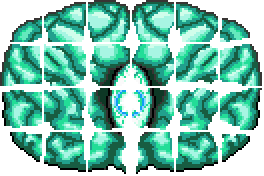
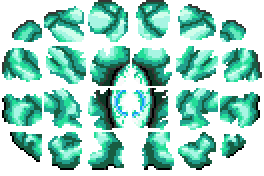
even more death anim progress

diff --git a/NPCs/Enemy/Boss/TrueBrain.cs b/NPCs/Enemy/Boss/TrueBrain.cs
@@ -1129,7 +1129,8 @@ namespace TerRoguelike.NPCs.Enemy.Boss
                 }
             }
             deadTime++;
-            
+
+            int timeToEnd = (deathCutsceneDuration - 30) - deadTime;
             for (int i = 0; i < deathTentacleBreakTimes.Length; i++)
             {
                 int breakTime = deathTentacleBreakTimes[i];
@@ -1188,8 +1189,67 @@ namespace TerRoguelike.NPCs.Enemy.Boss
                         ParticleManager.AddParticle(new OrbitingGore(
                             goreTex, gorePos, goreVel.RotatedBy(Main.rand.NextFloat(-0.4f, 0.4f)), 0.995f, Main.rand.NextFloat(0.04f, 0.08f), orbitAnchor, goreFrame, deathVortexLifetime, 
                             Color.White, new Vector2(1f), 0, 1, 240 - Main.rand.Next(60), 0.075f * Main.rand.NextFloat(0.5f, 2f)));
+
+                        for (int b = 0; b < 5; b++)
+                        {
+                            Vector2 velocity = new Vector2((x < 3 ? -1 : 1) * Main.rand.NextFloat(0.5f, 1f), Main.rand.NextFloat(-2, 0)) * Main.rand.NextFloat(1f, 1.7f);
+                            velocity.X *= Main.rand.NextFloat(0.5f, 3f);
+
+                            if (Main.rand.NextBool(3))
+                                velocity *= 1.5f;
+                            Vector2 scale = new Vector2(0.25f, 0.4f) * 0.65f;
+                            int time = 110 + Main.rand.Next(70);
+                            Color color = Color.Lerp(Color.Cyan * 0.65f, Color.Teal, Main.rand.NextFloat(0.75f));
+                            Vector2 randParticlePos = gorePos + Main.rand.NextVector2Circular(16, 16);
+                            ParticleManager.AddParticle(new Blood(randParticlePos, velocity, time, Color.Black * 0.65f, scale, velocity.ToRotation(), false));
+                            ParticleManager.AddParticle(new Blood(randParticlePos, velocity, time, color, scale, velocity.ToRotation(), true));
+                        }
                     }
                 }
+                for (int i = 0; i < 50; i++)
+                {
+                    Vector2 particlePos = NPC.Center + innerEyePosition;
+                    Vector2 offset = Main.rand.NextVector2Circular(104, 75);
+                    ParticleManager.AddParticle(new Ball(
+                        particlePos + offset, offset.SafeNormalize(Vector2.UnitY) * 5 * Main.rand.NextFloat(0.8f, 1f),
+                        60, Color.Lerp(Color.Teal, Color.White, 0.5f), new Vector2(0.4f) * Main.rand.NextFloat(0.5f, 1f), 0, 0.96f, 40));
+                }
+            }
+            if (deadTime >= deathExplodeTime && deadTime < deathExplodeTime + deathVortexLifetime)
+            {
+                int portalTime = deadTime - deathExplodeTime;
+                float portalScale = 1f;
+                if (portalTime < 150)
+                {
+                    float completion = portalTime / 150f;
+                    portalScale *= MathHelper.Clamp((float)Math.Pow(-(completion + 1), -5) + 1.031f, 0, 1);
+                }
+                if (portalTime >= deathVortexLifetime - 240)
+                {
+                    float completion = (portalTime - (deathVortexLifetime - 240)) / 240f;
+                    portalScale *= MathHelper.SmoothStep(1f, 0, completion);
+                }
+
+                if (portalScale > 0.05f)
+                {
+                    Vector2 offset = Main.rand.NextVector2CircularEdge(160, 160) * portalScale;
+                    ParticleManager.AddParticle(new Ball(
+                          (NPC.Center + innerEyePosition) + offset, offset.RotatedBy(1f) * 0.06f, 40, Color.Cyan * 0.7f, new Vector2(0.3f, 0.1f), offset.ToRotation(), 0.98f, 20, false));
+                }
+            }
+            else if (deadTime >= deathExplodeTime + deathVortexLifetime)
+            {
+                int thisTime = deadTime - (deathExplodeTime + deathVortexLifetime);
+                Vector2 cutsceneMoveVector = new Vector2(0, -2f);
+                if (thisTime < 120)
+                {
+                    cutsceneMoveVector *= MathHelper.Clamp(thisTime / 120f, 0, 1);
+                }
+                else if (timeToEnd < 180)
+                {
+                    cutsceneMoveVector *= MathHelper.Clamp((timeToEnd - 60) / 120f, 0, 1);
+                }
+                CutsceneSystem.cameraTargetCenter += cutsceneMoveVector;
             }
 
             if (deadTime >= deathCutsceneDuration - 30)
@@ -1258,9 +1318,9 @@ namespace TerRoguelike.NPCs.Enemy.Boss
         {
             if (deadTime >= deathExplodeTime)
             {
-                int portalTime = deadTime - deathExplodeTime;
                 StartAlphaBlendSpritebatch();
                 Vector2 drawPos = NPC.Center + innerEyePosition;
+                int portalTime = deadTime - deathExplodeTime;
                 float portalScale = 1f;
                 if (portalTime < 150)
                 {

diff --git a/Particles/OrbitingGore.cs b/Particles/OrbitingGore.cs
@@ -84,7 +84,7 @@ namespace TerRoguelike.Particles
             if (fadeOutInterpolant == 1)
                 outerLength = position.Distance(orbitAnchor);
 
-            position = ((position - orbitAnchor).SafeNormalize(Vector2.UnitY) * outerLength).RotatedBy(effectiveOrbitRate) * fadeOutInterpolant + orbitAnchor;
+            position = ((position - orbitAnchor).SafeNormalize(Vector2.UnitY) * outerLength).RotatedBy(effectiveOrbitRate) * (float)Math.Pow(fadeOutInterpolant, 1.25f) + orbitAnchor;
         }
     }
 }
